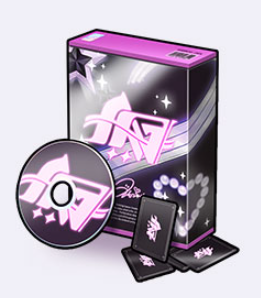
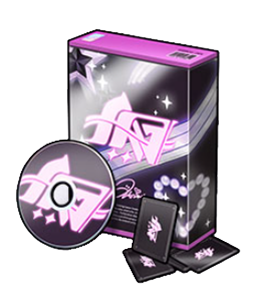
20240716 修正手機菜單問題及修改樣式、圖片箱子去背

diff --git a/src/components/contentmore/mabinogi/RoundItemsView.vue b/src/components/contentmore/mabinogi/RoundItemsView.vue
@@ -138,17 +138,21 @@ const calculateTotalProbability = () => {
 
 <template>
   <!-- 選擇 -->
-  <section class="flex justify-center items-center">
-    <div class="w-[120px] h-[120px]" @click="selectdraw('陰陽之神箱子')">
+  <section class="flex flex-wrap justify-center gap-2 p-2">
+    <div class="w-1/4 lg:w-1/6 flex justify-center items-center rounded-[10px] hover:bg-[#f4f4f4]"
+      @click="selectdraw('陰陽之神箱子')">
       <img src="@/assets/image/box/陰陽之神.png" alt="">
     </div>
-    <div class="w-[120px] h-[120px]" @click="selectdraw('蔚藍海洋水手箱子')">
+    <div class="w-1/4 lg:w-1/6 flex justify-center items-center rounded-[10px] hover:bg-[#f4f4f4]"
+      @click="selectdraw('蔚藍海洋水手箱子')">
       <img src="@/assets/image/box/蔚藍海洋.png" alt="">
     </div>
-    <div class="w-[120px] h-[120px]" @click="selectdraw('偶像星辰箱子')">
+    <div class="w-1/4 lg:w-1/6 flex justify-center items-center rounded-[10px] hover:bg-[#f4f4f4]"
+      @click="selectdraw('偶像星辰箱子')">
       <img src="@/assets/image/box/偶像星辰.png" alt="">
     </div>
   </section>
+
 
   <!-- 抽獎 -->
   <section class="flex justify-center items-center p-3 ">
@@ -159,7 +163,7 @@ const calculateTotalProbability = () => {
 
       <div class="flex justify-center gap-4">
         <button
-          class="text-center p-2 w-[20%] lg:w-[13%] rounded-[13px] bg-[#f3c0c0] hover:bg-[#dab8b8] shadow-[4px_4px_1px_-1px_rgba(0,0,0,1)] text-[#2e2a3f]"
+          class="text-center p-1 w-[20%] lg:w-[13%] rounded-[13px] bg-[#f3c0c0] hover:bg-[#dab8b8] shadow-[4px_4px_1px_-1px_rgba(0,0,0,1)] text-[#2e2a3f]"
           @click="draw()">按我</button>
 
         <!-- <button
@@ -177,8 +181,8 @@ const calculateTotalProbability = () => {
       <div class="p-3 text-[16px] md:text-[20px]">
 
         <!-- Object.entries(totalProbabilityByLevel) -->
-        <span class="md:text-[16px] text-[14px]  text-[#898989]"
-          v-for="(probability, level) in totalProbabilityByLevel" :key="level">
+        <span class="md:text-[16px] text-[14px]  text-[#898989]" v-for="(probability, level) in totalProbabilityByLevel"
+          :key="level">
           {{ level }}：{{ probability }}％&nbsp;
         </span>
 
@@ -210,20 +214,20 @@ const calculateTotalProbability = () => {
           <tr class=" text-[#555555]" v-for="(prizeItems, index) in prizeHistory" :key="index">
             <!-- 獎品等級 -->
             <td :class="{
-      'rainbow': prizeItems.level === 'S',
-      'text-[#ea67f4]': prizeItems.level === 'A',
-      'text-[#54b16e]': prizeItems.level === 'B',
-      'text-[#867d7d]': prizeItems.level === 'C'
-    }" class="border border-slate-300  p-1">{{
-      prizeItems.level
-    }}</td>
-            <!-- 獎品名稱 -->
-            <td :class="{
-        'rainbow font-bold': prizeItems.level === 'S',
+        'rainbow': prizeItems.level === 'S',
         'text-[#ea67f4]': prizeItems.level === 'A',
         'text-[#54b16e]': prizeItems.level === 'B',
         'text-[#867d7d]': prizeItems.level === 'C'
-      }" class="border border-slate-300">{{ prizeItems.name }}
+      }" class="border border-slate-300  p-1">{{
+        prizeItems.level
+      }}</td>
+            <!-- 獎品名稱 -->
+            <td :class="{
+          'rainbow font-bold': prizeItems.level === 'S',
+          'text-[#ea67f4]': prizeItems.level === 'A',
+          'text-[#54b16e]': prizeItems.level === 'B',
+          'text-[#867d7d]': prizeItems.level === 'C'
+        }" class="border border-slate-300">{{ prizeItems.name }}
             </td>
             <!-- 獎品機率 -->
             <td class="border border-slate-300">{{ prizeItems.probability.toFixed(4) }}</td>

diff --git a/src/components/header/Mainheader.vue b/src/components/header/Mainheader.vue
@@ -1,7 +1,8 @@
 <script setup lang="ts">
+import * as Type from '../../assets/type.ts'
 import { useStore } from '../../stores/stores';
 
-import { reactive } from 'vue';
+import { reactive, watch } from 'vue';
 
 const SideBar = useStore();
 
@@ -10,16 +11,10 @@ const openMenu = () => {
 };
 
 const isMenuX = () => {
-        SideBar.isMenuOpen = false;
-    };
+    SideBar.isMenuOpen = false;
+};
 
-export interface MenuItem {
-    page: number;
-    name: string;
-    route: string;
-}
-
-const MenuItems: MenuItem[] = reactive([
+const MenuItems: Type.MenuItem[] = reactive([
     {
         page: 1,
         name: "Home",
@@ -30,11 +25,18 @@ const MenuItems: MenuItem[] = reactive([
         name: "About",
         route: "about",
     },
+    {
+        page: 3,
+        name: "Mabinogi",
+        route: "mabinogi",
+    },
 ]);
 
-
-
-
+// 開關菜單取消滑動
+watch(() => SideBar.isMenuOpen, (newVal) => {
+    document.body.classList.toggle('overflow-hidden', newVal);
+    document.body.classList.toggle('overflow-auto', !newVal);
+});
 
 </script>
 
@@ -49,6 +51,7 @@ const MenuItems: MenuItem[] = reactive([
 
         <!-- nav web-->
         <div class="grid col-span-6 col-start-6 justify-end items-center">
+            <!--  -->
             <button class="lg:hidden flex justify-center items-center hover:text-[#125627] p-3" @click="openMenu()">
                 <svg class="w-6 h-6" fill="none" stroke="currentColor" viewBox="0 0 24 24"
                     xmlns="http://www.w3.org/2000/svg">
@@ -56,6 +59,7 @@ const MenuItems: MenuItem[] = reactive([
                     </path>
                 </svg>
             </button>
+            <!--  -->
             <ul class="hidden lg:flex gap-x-6">
                 <li class="hover:text-[#125627]" v-for="Items in MenuItems" :key="(Items as any)">
                     <router-link :to="Items.route">{{ Items.name }}</router-link>
@@ -65,21 +69,27 @@ const MenuItems: MenuItem[] = reactive([
     </header>
 
     <!-- nav app -->
-    <div class="absolute top-1/2 left-1/2 -translate-x-1/2 -translate-y-1/2 bg-slate-200 h-full w-full flex justify-center items-center lg:hidden"
+    <div class="fixed top-0 left-0 h-full w-full flex justify-center items-center lg:hidden"
         v-show="SideBar.isMenuOpen">
-        <button class="absolute left-[82%] top-[calc(25px/2)]" @click="openMenu()">
-            <svg class="w-6 h-6" xmlns="http://www.w3.org/2000/svg" fill="none" viewBox="0 0 24 24" stroke-width="1.5"
+        <div class="absolute top-0 left-0 h-full w-full bg-slate-50 backdrop-blur-md bg-opacity-75"></div>
+        <!-- X -->
+        <button class="absolute top-2 right-8 hover:text-[#125627] text-[#5f5f5f] p-3" @click="openMenu()">
+            <svg class="w-10 h-10" xmlns="http://www.w3.org/2000/svg" fill="none" viewBox="0 0 24 24" stroke-width="1.5"
                 stroke="currentColor">
                 <path stroke-linecap="round" stroke-linejoin="round" d="M6 18 18 6M6 6l12 12" />
             </svg>
         </button>
-        <ul class="text-center">
-            <li class="hover:text-[#125627] mt-3" v-for="Items in MenuItems" :key="(Items as any)">
+
+        <!--  -->
+        <ul class="text-center z-10">
+            <li class="hover:text-[#125627] text-[#5f5f5f] text-[18px] font-bold p-2" v-for="Items in MenuItems" :key="(Items as any)">
                 <router-link :to="Items.route" @click.native="isMenuX">{{ Items.name }}</router-link>
             </li>
             <li class="hover:text-[#125627] mt-3"></li>
         </ul>
+
     </div>
+
 </template>
 
 <style scoped></style>

diff --git a/src/components/content/CapyBaby.vue b/src/components/content/CapyBaby.vue
@@ -1,32 +1,37 @@
 <script setup lang="ts">
-import router from '../../router';
+// import router from '../../router';
 
 
-const toPage = (page:any) =>{
-    router.push({name:page});
-};
+// const toPage = (page: any) => {
+//     router.push({ name: page });
+// };
 
 </script>
 
 <template>
     <!-- 內容寫裡面 -->
-    <section class="min-h-[80vh]">
+    <section class="min-h-[77vh]">
 
-        <div class="grid grid-cols-12 text-[22px] bg-gradient-to-r p-5 from-[#e9f2eb] to-[#c6e1cc]">
-            <div class="lg:col-span-6 col-span-12 p-5 text-center">
-                <p>探索生活的無限可能，一杯咖啡、一本書，一刻美好的寧静。</p><br />
-                <p>與我們一同體驗這個美妙的世界吧，每個瞬間都值得珍惜。</p><br />
-                <div class="text-sm text-blue-500">#生活的美好 #無限可能</div>
+        <div class="grid grid-cols-12 p-5">
+
+            <div class="lg:col-span-6 col-span-12 p-5 text-[20px] text-center flex justify-center items-center text-[#123456]">
+                <div class="">
+                    <p>探索生活的無限可能，一杯咖啡、一本書，一刻美好的寧静。</p><br />
+                    <p>與我們一同體驗這個美妙的世界吧，每個瞬間都值得珍惜。</p><br />
+                    <div class="text-sm text-blue-500">#生活的美好 #無限可能</div>
+                </div>
 
                 <div class="flex justify-center items-center text-[18px] mt-5 gap-x-6">
                     <!-- mabinogi -->
-                    <button class="bg-gradient-to-t rounded-[15px] p-2 from-[#ffbe4e] hover:from-[#ffab1a] to-[#ffffff] hover:to-[#ffffff]" @click="toPage('mabinogi')" >Mabinogi</button>
+                    <!-- <button class="bg-gradient-to-t rounded-[15px] p-2 from-[#ffbe4e] hover:from-[#ffab1a] to-[#ffffff] hover:to-[#ffffff]" @click="toPage('mabinogi')" >Mabinogi</button> -->
                     <!-- StarRail -->
                     <!-- <button class="bg-gradient-to-t rounded-[15px] p-2 from-[#ffbe4e] hover:from-[#ffab1a] to-[#ffffff] hover:to-[#ffffff]" @click="toPage('starrail')" >StarRail</button> -->
                 </div>
             </div>
-            <div class="lg:col-span-6 col-span-12 p-5 text-center">
-                <img src="@/assets/Image/zoo/IMG_7346.jpg" alt="">
+            <div class="lg:col-span-6 col-span-12 p-5 text-center flex justify-center items-center">
+                <div class="md:h-[80%] md:w-[80%] h-[90%] w-[90%]">
+                    <img src="@/assets/Image/zoo/IMG_7346.jpg" alt="">
+                </div>
             </div>
         </div>
 

diff --git a/src/components/content/MabinogiView.vue b/src/components/content/MabinogiView.vue
@@ -9,11 +9,11 @@ import { reactive } from 'vue';
 
 const SideItems: Type.SideItems[] = reactive([
     {
-        name: "隨機數字",
+        name: "轉蛋試抽",
         route: "",
     },
     {
-        name: "轉蛋試抽",
+        name: "隨機數字",
         route: "",
     },
 ]);
@@ -23,7 +23,6 @@ const SideBar = useStore();
 // 點選左邊分頁時給數字進行顯示
 const openSideBarNum = (index: number) => {
     SideBar.setSelectedPage(index);
-    // console.log(SideBar.SelectedPage);
 };
 
 </script>
@@ -32,12 +31,12 @@ const openSideBarNum = (index: number) => {
     <!-- 內容寫裡面 -->
     <section class="min-h-[80vh]">
 
-        <div class="text-[22px] md:grid grid-cols-12  p-5">
+        <div class="text-[22px] md:grid grid-cols-12 ps-5 pe-5 md:p-5">
 
             <!-- 左內容顯示 -->
             <div class="md:grid md:col-span-2 md:col-start-2 md:row-start-1 flex justify-between md:justify-center items-center md:h-[200px]">
                 <button
-                    class="bg-[#ffffff] hover:bg-[#cbd1cb] hover:text-[#8a857e] text-[#403426] text-center rounded-[20px] p-3 m-3 text-[20px]"
+                    class="bg-[#ffffff] hover:bg-[#cbd1cb] text-[#403426] text-center rounded-[20px] p-3 m-3 text-[18px] shadow-[4px_4px_1px_-1px_rgba(0,0,0,1)]"
                     v-for="(item, index) in SideItems" :key="(SideItems as any)" @click="openSideBarNum(index + 1)">
                     {{ item.name }}
                 </button>
@@ -45,10 +44,10 @@ const openSideBarNum = (index: number) => {
 
             <!-- 右邊內容顯示 -->
             <div class="grid col-span-12 md:col-span-6 bg-[#ffffff] text-center rounded-[20px]">
-                <RoundNumView v-if="SideBar.SelectedPage == 1">
-                </RoundNumView>
-                <RoundItemsView v-if="SideBar.SelectedPage == 2">
+                <RoundItemsView v-if="SideBar.SelectedPage == 1">
                 </RoundItemsView>
+                <RoundNumView v-if="SideBar.SelectedPage == 2">
+                </RoundNumView>
                 <MabinogiContent v-if="SideBar.SelectedPage == 0">
                 </MabinogiContent>
             </div>

diff --git a/src/components/footer/Mainfooter.vue b/src/components/footer/Mainfooter.vue
@@ -3,7 +3,7 @@ import * as Type from '../../assets/type.ts'
 import { reactive } from 'vue';
 
 
-const MenuItems: Type.MenuItem[] = reactive([
+const FooterItem: Type.FooterItem[] = reactive([
     {
         name: "DC",
         route: "",
@@ -25,7 +25,7 @@ const MenuItems: Type.MenuItem[] = reactive([
         <!-- nav -->
         <div class="flex justify-center items-center">
             <ul class="flex gap-x-6">
-                <li class="hover:text-[#125627]" v-for="Items in MenuItems" :key="(Items as any)">{{ Items.name }}</li>
+                <li class="hover:text-[#125627]" v-for="Items in FooterItem" :key="(Items as any)">{{ Items.name }}</li>
             </ul>
         </div>
 

diff --git a/src/components/content/AboutView.vue b/src/components/content/AboutView.vue
@@ -6,13 +6,9 @@
     <!-- 內容寫裡面 -->
     <section class="min-h-[80vh]">
 
-        <div class="flex justify-center text-[22px] bg-gradient-to-r p-5 from-[#e9f2eb] to-[#c6e1cc]">
+        <div class="flex justify-center text-[22px] p-5">
             <div class="p-5 text-center">
-
-                <p>ABOUT
-                <p class="text-sm text-blue-500">#我都要不認得我在寫啥</p><br />
-
-                這只是很普通的分頁</p>
+                關於我
             </div>
         </div>
 

diff --git a/src/assets/type.ts b/src/assets/type.ts
@@ -7,6 +7,13 @@ export interface SideItems {
 
 
 export interface MenuItem {
+    page: number;
     name: string;
     route: string;
 }
+
+export interface FooterItem {
+    name: string;
+    route: string;
+}
+
